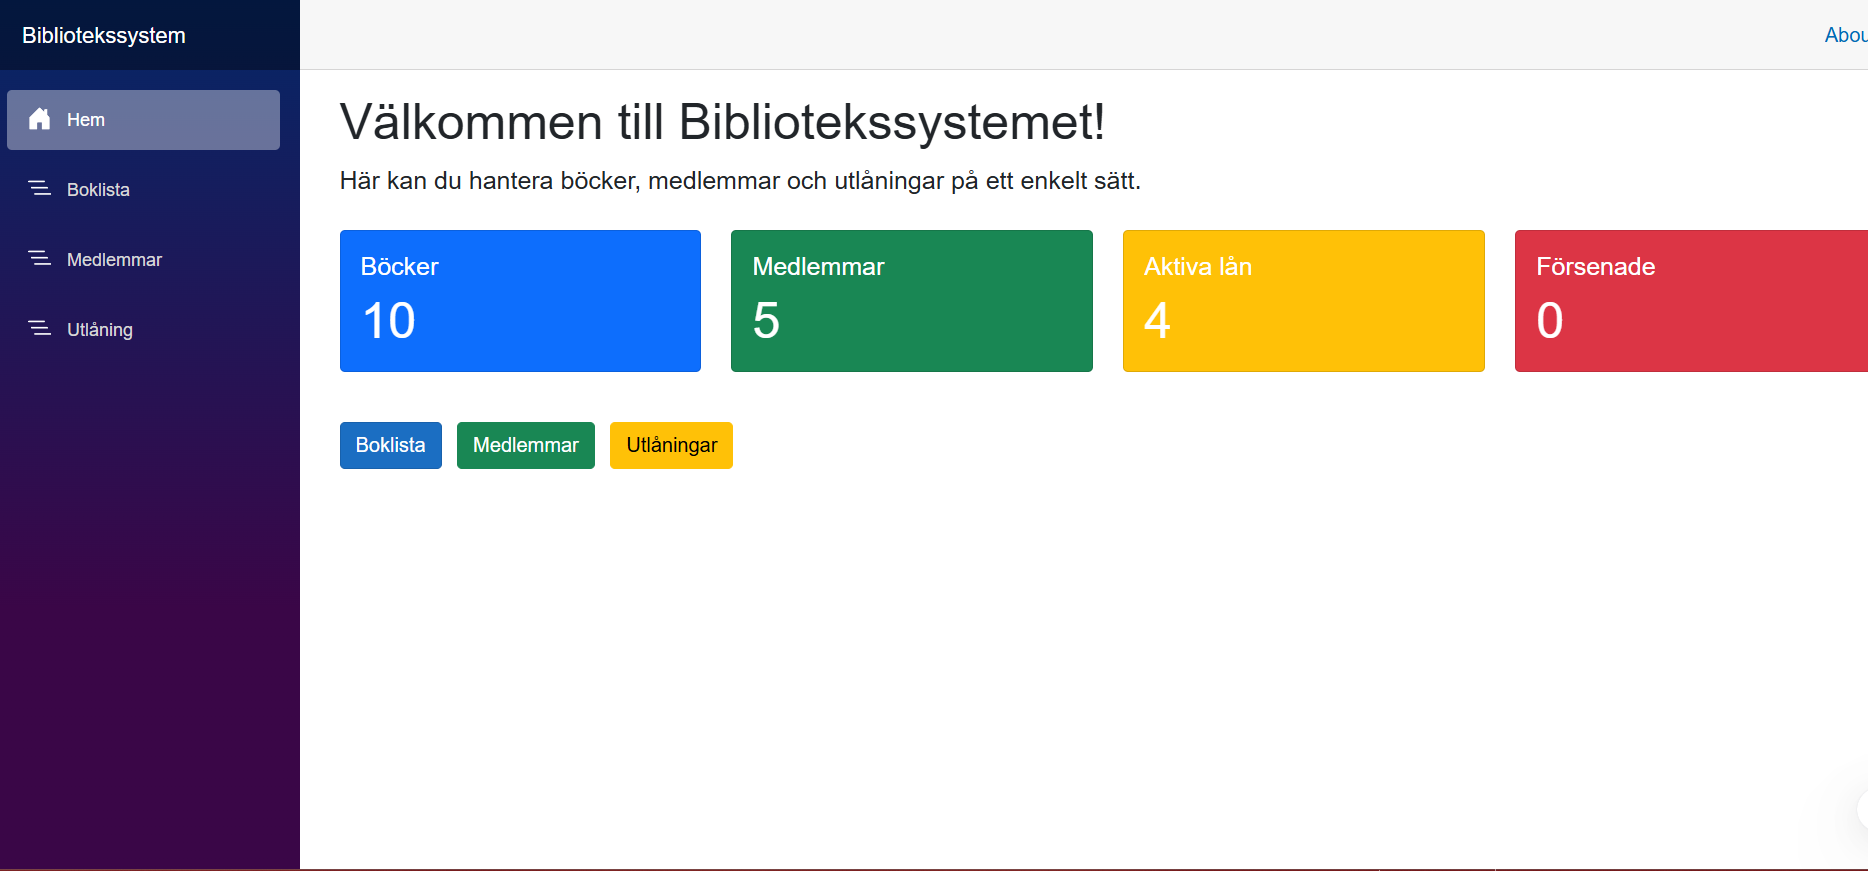
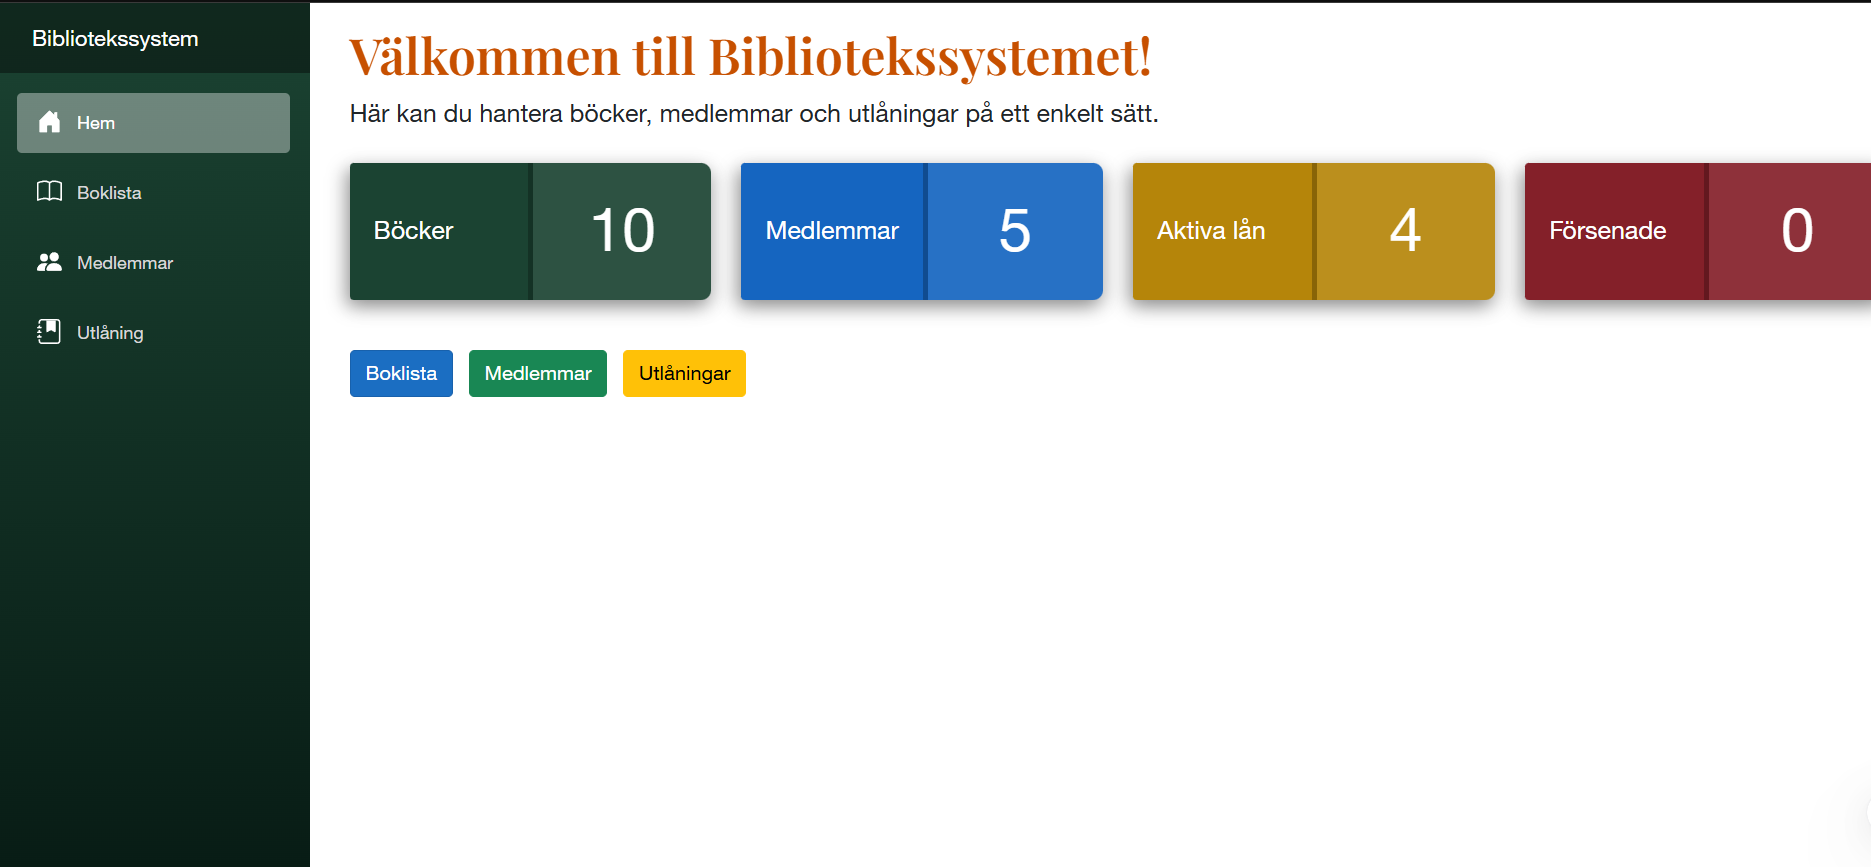
Update screenshots with new UI design

diff --git a/README.md b/README.md
@@ -162,10 +162,10 @@ Databasen består av tre tabeller med följande struktur och relationer:
 ![Startsida](docs/screenshots/home.png)
 
 ### Böcker
-![Böcker](docs/screenshots/books.png)
+![Böcker](docs/screenshots/böcker.png)
 
 ### Medlemmar
-![Medlemmar](docs/screenshots/medlems.png)
+![Medlemmar](docs/screenshots/medlemmar.png)
 
 ### Lån
-![Lån](docs/screenshots/loans.png)
+![Lån](docs/screenshots/lån.png)
